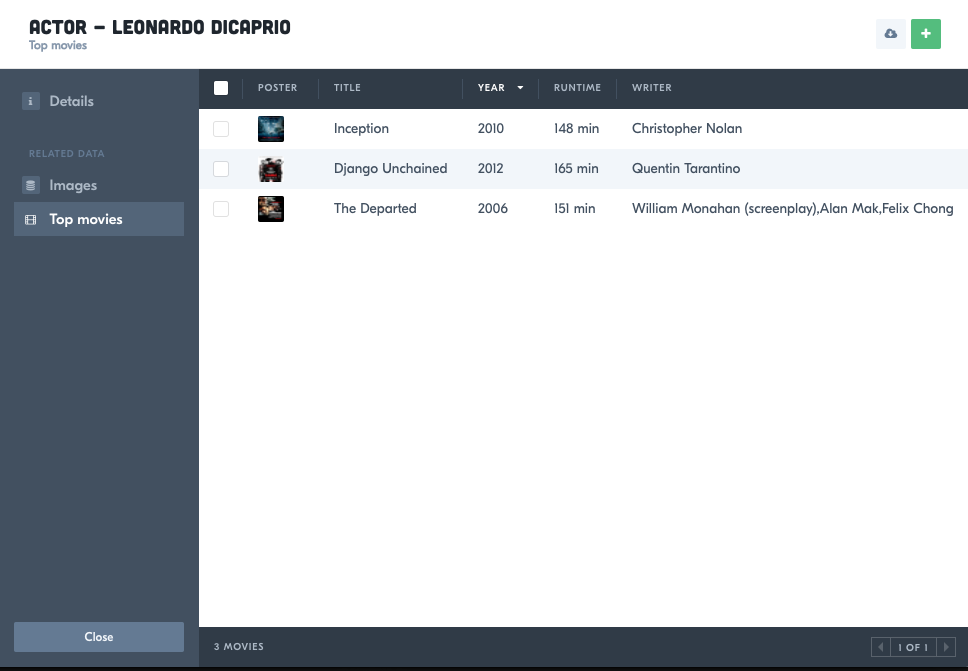
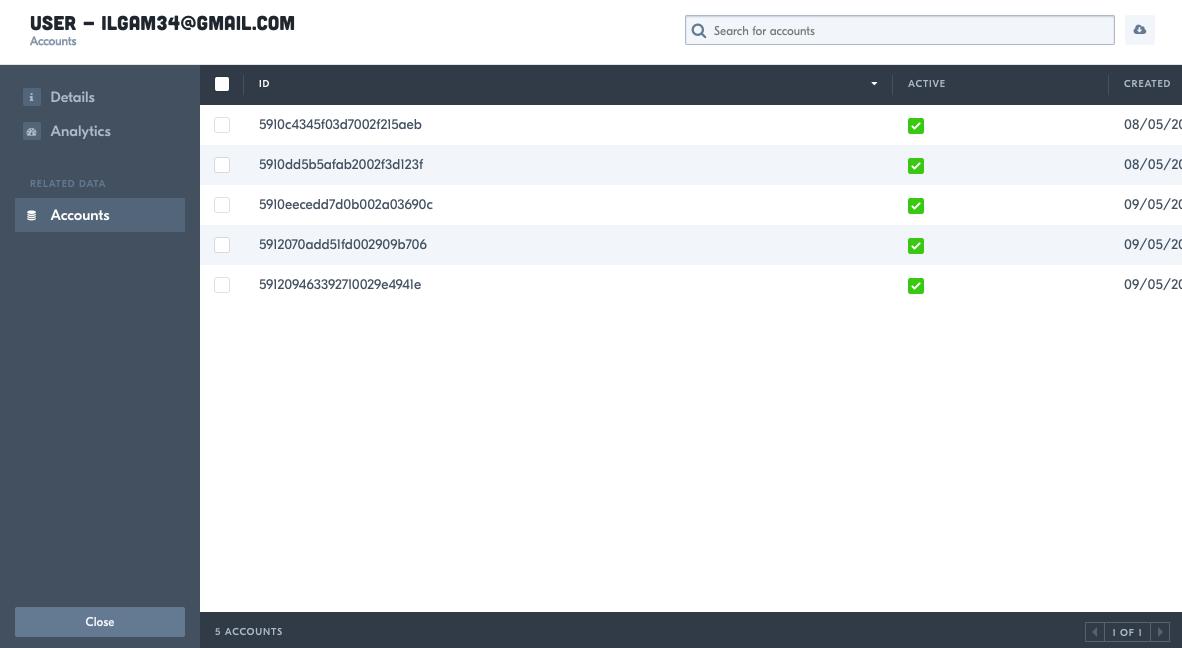
Improve the hasMany relationship example in mongodb

diff --git a/_includes/express-mongoose/relationships.md b/_includes/express-mongoose/relationships.md
@@ -22,7 +22,7 @@ Try it out with one these 2 examples (it only takes a few minutes):
 - [BelongsTo Smart Relationship](#example-quot-belongsto-quot-smart-relationship)
 - [HasMany Smart Relationship](#example-quot-hasmany-quot-smart-relationship)
 
-## Example: "belongsTo" Smart Relationship
+## Handling BelongsTo relationships
 
 In the following example, we add the last delivery man of a customer to your
 Forest admin on a collection customers.
@@ -57,16 +57,16 @@ Liana.collection('users', {
 
 ```
 
-## Example: "hasMany" Smart Relationship
+## Handling HasMany relationships
 
-In the following example, we add the top 3 movies of an actor to your
-Forest admin on a collection actors.
+Let's say a `User` hasMany `Account`. Here's how to configure the `hasMany`
+Smart Relationships.
 
 <div class="l-step l-mb l-pt">
   <span class="l-step__number l-step__number--active u-f-l u-hm-r">1</span>
   <div class="u-o-h">
-    <h2 class="l-step__title">Create the Smart Field</h2>
-    <p class="l-step__description">/forest/actor.js</p>
+    <h2 class="l-step__title">Create the Smart Relationship</h2>
+    <p class="l-step__description">/forest/user.js</p>
   </div>
 </div>
 
@@ -74,11 +74,11 @@ Forest admin on a collection actors.
 'use strict';
 var Liana = require('forest-express-mongoose');
 
-Liana.collection('actors', {
+Liana.collection('users', {
   fields: [{
-    field: 'topmovies',
+    field: 'accounts',
     type: ['String'],
-    reference: 'movies.id'
+    reference: 'accounts.id'
   }]
 });
 
@@ -93,29 +93,35 @@ Liana.collection('actors', {
 </div>
 
 ```javascript
-var liana = require('forest-express-mongoose');
+'use strict';
+const express = require('express');
+const router = express.Router();
+const Liana = require('forest-express-mongoose');
+const Account = require('../models/account');
 
-function topMovies(req, res) {
-  // your business logic to retrieve the top 3 movies
-  .then((movies) => {
-    return new liana.Serializer(liana, models.movies, movies, null, {}, {
-      count: movies.length
-    }).perform();
-  })
-  .then((projects) => res.send(projects))
-  .catch(next);
+function userAccounts(req, res) {
+  let condition = { userId: req.params.userId };
+  let limit = parseInt(req.query.page.size);
+  let skip = (parseInt(req.query.page.number) - 1) * limit;
+
+  return Account.find(condition).limit(limit).skip(skip).exec()
+    .then((accounts) => {
+      return Account.count(condition)
+        .then((count) => {
+          return new Liana.ResourceSerializer(Liana, Account, accounts, null, {}, {
+            count: count
+          }).perform();
+        });
+    })
+    .then((accounts) => {
+      res.send(accounts);
+    });
 }
 
-router.get('/forest/actor/:actorId/relationships/movies', topMovies);
-```
+router.get('/users/:userId/relationships/accounts', userAccounts);
 
-<div class="l-step l-mb l-pt">
-  <span class="l-step__number l-step__number--active u-f-l u-hm-r">3</span>
-  <div class="u-o-h">
-    <h2 class="l-step__title">Restart your Express server</h2>
-    <p class="l-step__description">The Smart Field will appear in your collection.</p>
-  </div>
-</div>
+module.exports = router;
+```
 
 ![SmartField 1](/public/img/smart-field-1.png "smart-field-1")
 

diff --git a/_includes/rails/relationships.md b/_includes/rails/relationships.md
@@ -24,7 +24,7 @@ Try it out with one these 2 examples (it only takes a few minutes):
 - [BelongsTo Smart Relationship](#example-belongsto-smart-relationship)
 - [HasMany Smart Relationship](#example-hasmany-smart-relationship)
 
-## Example: "belongsTo" Smart Relationship
+## Handling BelongsTo relationships
 
 In the following example, we add the last delivery man of a customer to your
 Forest admin on a collection customers.
@@ -52,7 +52,7 @@ class Forest::Customer
 end
 ```
 
-## Example: "hasMany" Smart Relationship
+## Handling HasMany relationships
 
 In the following example, we add the top 3 movies of an actor to your
 Forest admin on a collection actors.
